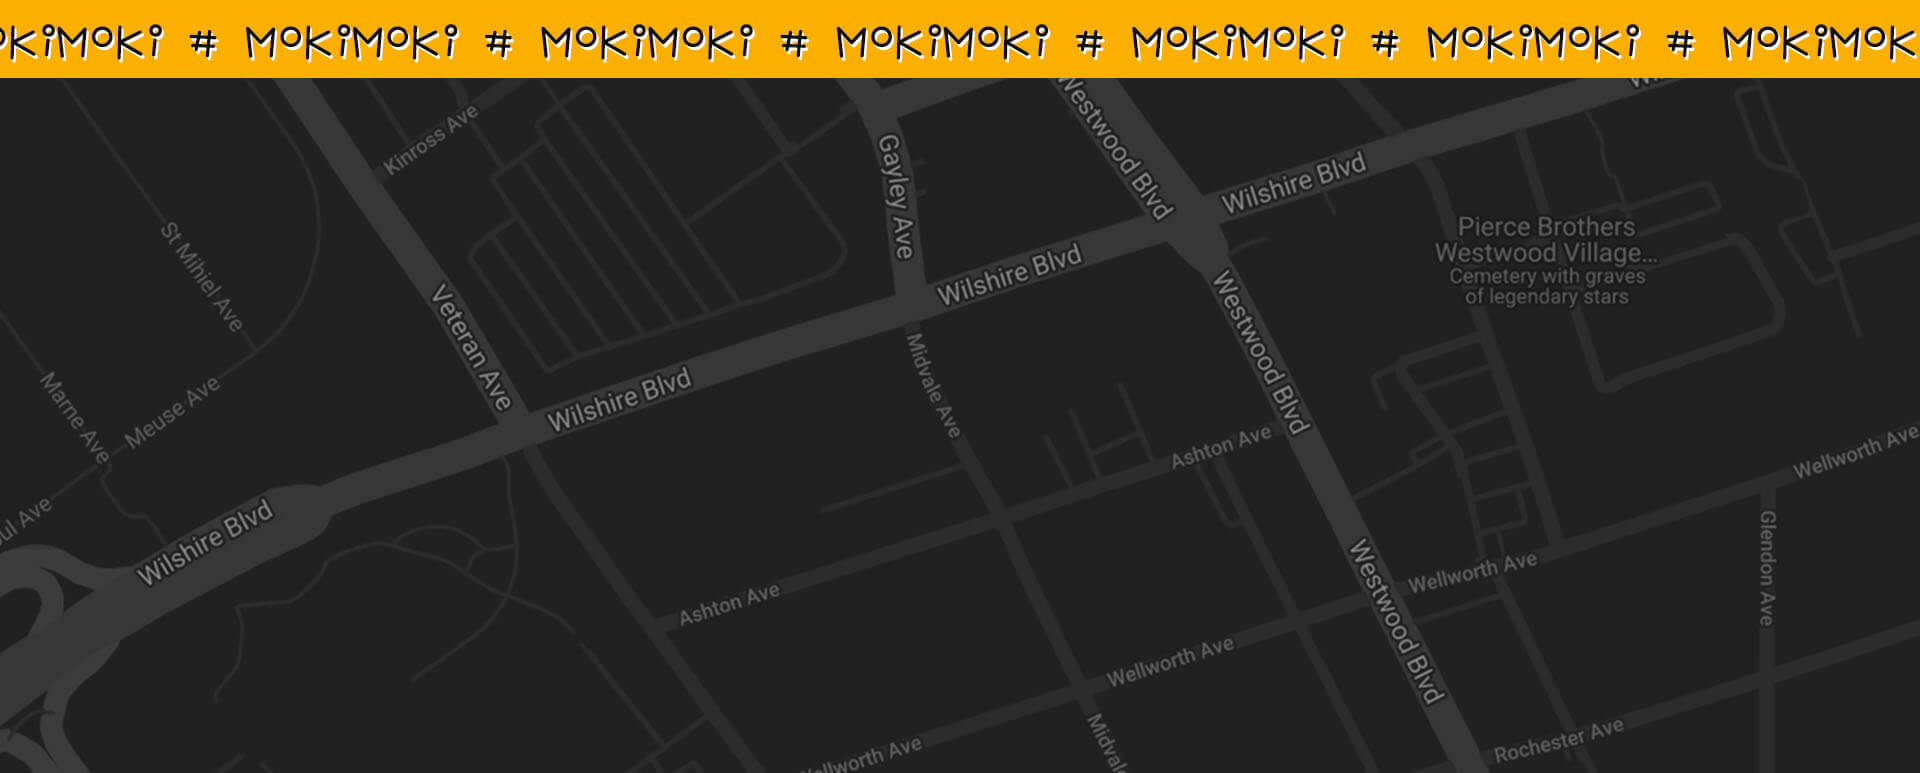
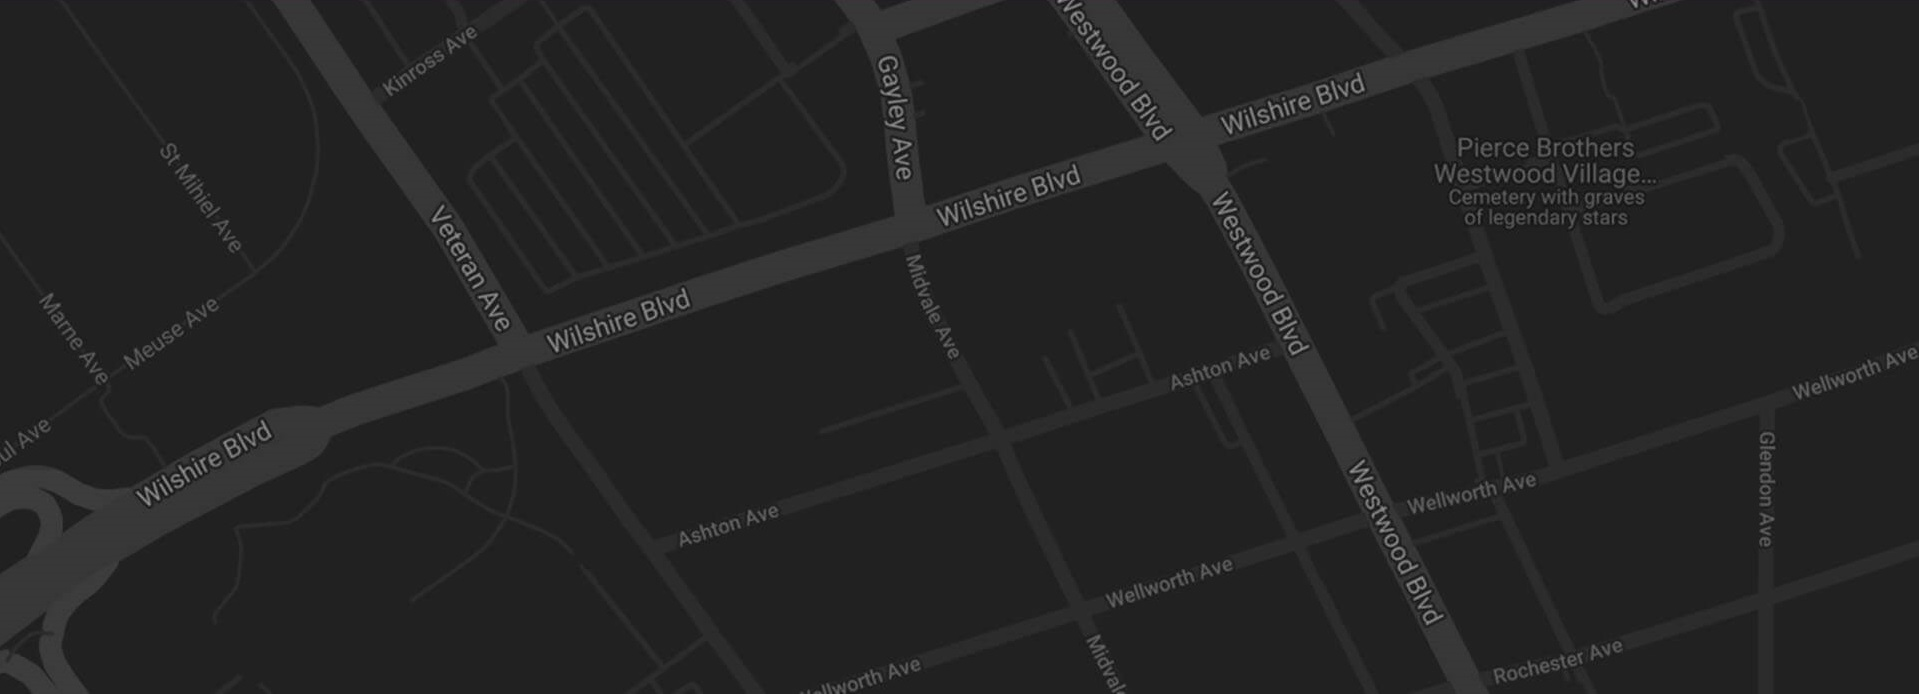
Change footer background and add running line

diff --git a/docs/css/style.css b/docs/css/style.css
@@ -537,6 +537,77 @@ button {
   margin: 0 auto;
 }
 
+.running-line {
+  width: 100%;
+  height: 70px;
+  background-color: #FBB000;
+  display: -webkit-box;
+  display: -ms-flexbox;
+  display: flex;
+  -webkit-box-align: center;
+  -ms-flex-align: center;
+  align-items: center;
+  overflow: hidden;
+}
+
+@media (max-width: 990px) {
+  .running-line {
+    height: 60px;
+  }
+}
+
+@media (max-width: 620px) {
+  .running-line {
+    height: 50px;
+  }
+}
+
+.running-line__text {
+  display: inline-block;
+  font-weight: 500;
+  font-family: 'Hopscotch';
+  font-size: 54px;
+  color: #0F0F0F;
+  white-space: nowrap;
+  text-shadow: 2px 2px 0px #fff;
+  -webkit-animation: animation-running 180s infinite linear alternate;
+  animation: animation-running 180s infinite linear alternate;
+}
+
+@media (max-width: 990px) {
+  .running-line__text {
+    font-size: 48px;
+  }
+}
+
+@media (max-width: 620px) {
+  .running-line__text {
+    font-size: 40px;
+  }
+}
+
+@-webkit-keyframes animation-running {
+  from {
+    -webkit-transform: translateX(0%);
+    transform: translateX(0%);
+  }
+  to {
+    -webkit-transform: translateX(-40%);
+    transform: translateX(-40%);
+  }
+}
+
+@keyframes animation-running {
+  from {
+    -webkit-transform: translateX(0%);
+    transform: translateX(0%);
+  }
+  to {
+    -webkit-transform: translateX(-40%);
+    transform: translateX(-40%);
+  }
+}
+
 @-webkit-keyframes blinker {
   0% {
     opacity: 0.3;
@@ -6886,8 +6957,8 @@ button {
   white-space: nowrap;
   -o-text-overflow: ellipsis;
   text-overflow: ellipsis;
-  color: #FDB604;
-  text-shadow: 0 0 20px #FDB604;
+  color: #FBB000;
+  text-shadow: 0 0 20px #FBB000;
   border: none;
   outline: none;
   background-color: transparent;
@@ -8018,6 +8089,12 @@ button {
   .footer {
     padding-top: 130px;
   }
+}
+
+.footer .running-line {
+  position: absolute;
+  top: 0;
+  left: 0;
 }
 
 .footer__content {

diff --git a/docs/index.html b/docs/index.html
@@ -741,6 +741,9 @@
 			</section>
 		</main>
 		<footer class="footer">
+			<div class="running-line">
+				<p class="running-line__text running-text">mokimoki # mokimoki # mokimoki # mokimoki # mokimoki # mokimoki # mokimoki # mokimoki # mokimoki # mokimoki # mokimoki # mokimoki # mokimoki # mokimoki # mokimoki # mokimoki # mokimoki # mokimoki # mokimoki # mokimoki # mokimoki # mokimoki # mokimoki # mokimoki # mokimoki # mokimoki # mokimoki # mokimoki # mokimoki # mokimoki # mokimoki # mokimoki # mokimoki # mokimoki # mokimoki # mokimoki # mokimoki # mokimoki # mokimok</p>
+			</div>
 			<div class="container">
 				<div class="footer__inner">
 					<div class="footer__head">
